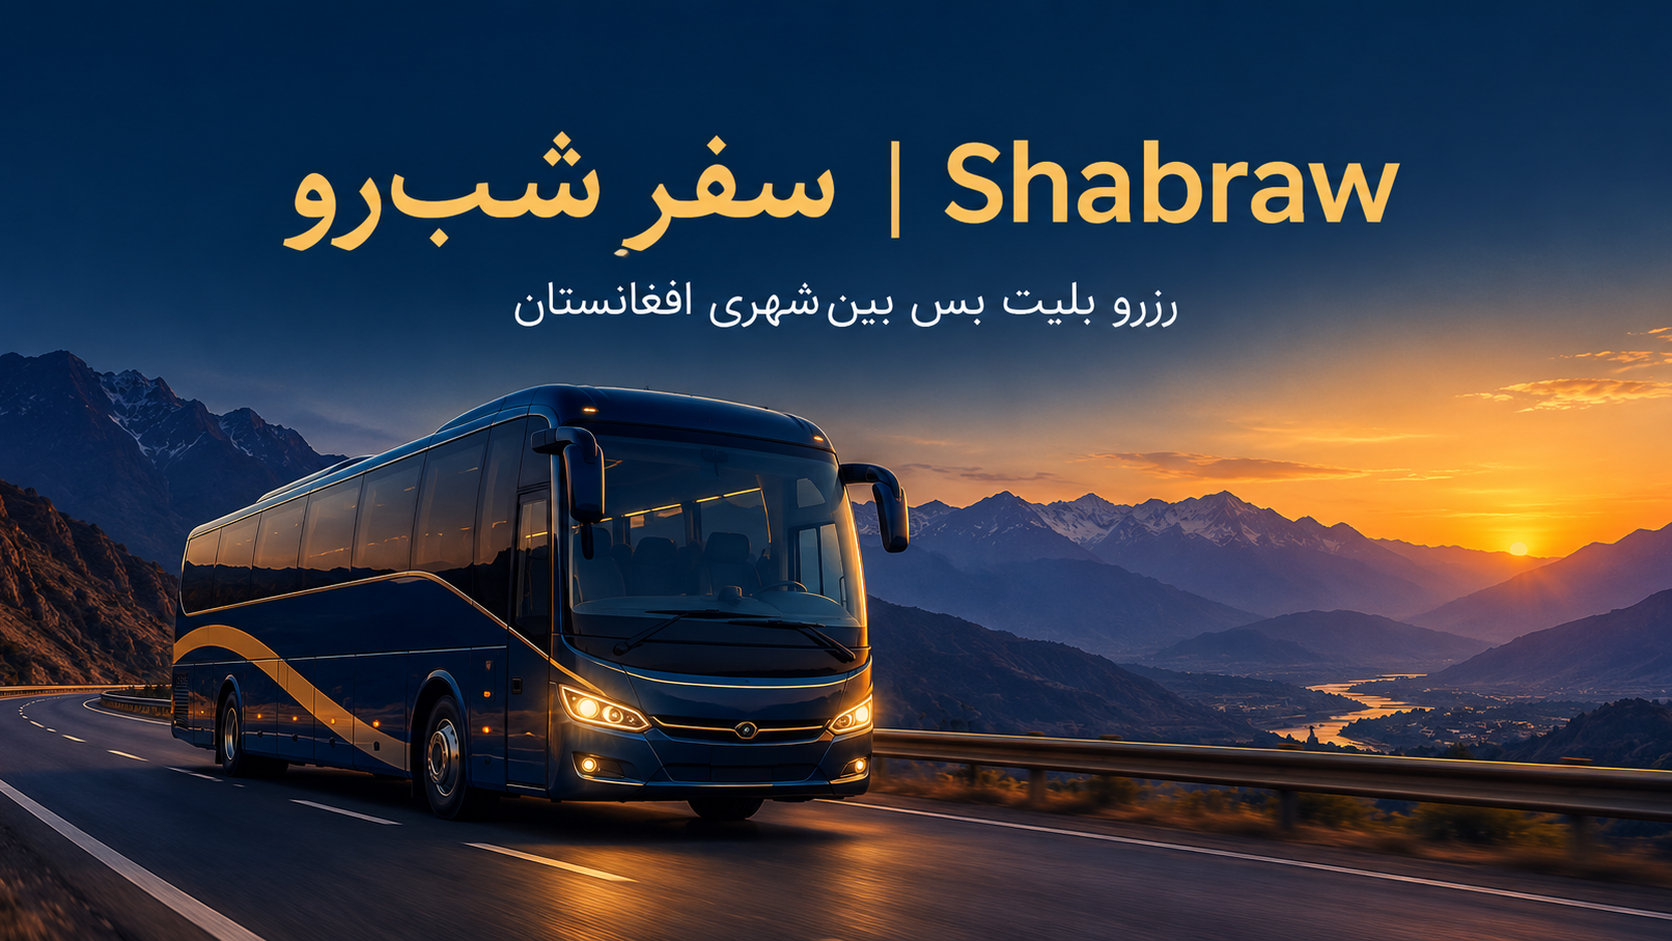
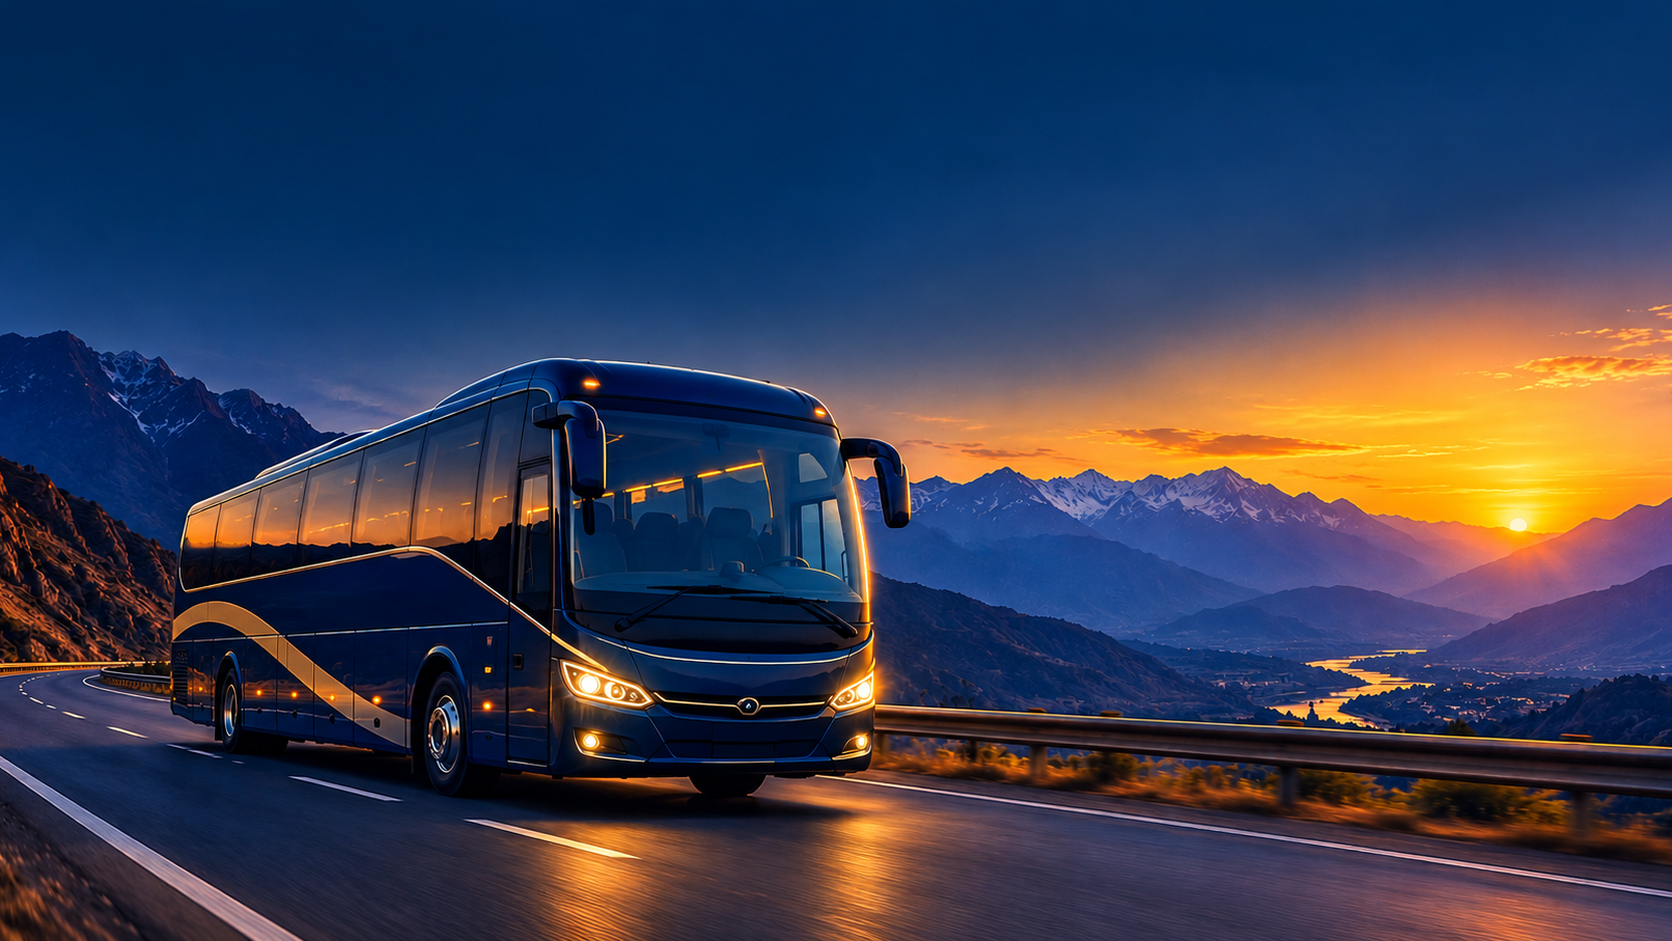
final-og-hero-fix

diff --git a/app/layout.tsx b/app/layout.tsx
@@ -34,9 +34,14 @@ export const metadata: Metadata = {
     title: 'سفرِ شبرو | Shabraw — بلیت بس بینشهری افغانستان',
     description:
       'رزرو آنلاین بلیت بسهای بینشهری در مسیر کابل تا هرات — کابل، غزنی، قلات، کندهار، هلمند، نیمروز، فراه، هرات.',
+    // نکتهٔ حیاتی: تلگرام/واتساپ/... عکسِ og:image را جدا از خودِ صفحه و
+    // بر اساس همین آدرس فایل کش میکنند — رفرشکردن پیشنمایش صفحه (حتی با
+    // ابزار رسمی) کشِ خودِ عکس را پاک نمیکند. پس هر بار محتوای این عکس
+    // عوض شد، حتماً باید *اسم فایل* هم عوض شود (مثلاً v2 -> v3)، وگرنه
+    // پلتفرمها همان نسخهٔ قدیمی را نشان میدهند حتی بعد از دیپلوی درست.
     images: [
       {
-        url: 'https://transportation-system-blue.vercel.app/og-image.jpg',
+        url: 'https://transportation-system-blue.vercel.app/og-image-v2.jpg',
         width: 1200,
         height: 630,
         type: 'image/jpeg',
@@ -49,7 +54,7 @@ export const metadata: Metadata = {
     title: 'سفرِ شبرو | Shabraw — بلیت بس بینشهری افغانستان',
     description:
       'رزرو آنلاین بلیت بسهای بینشهری در مسیر کابل تا هرات.',
-    images: ['https://transportation-system-blue.vercel.app/og-image.jpg'],
+    images: ['https://transportation-system-blue.vercel.app/og-image-v2.jpg'],
   },
 }
 
